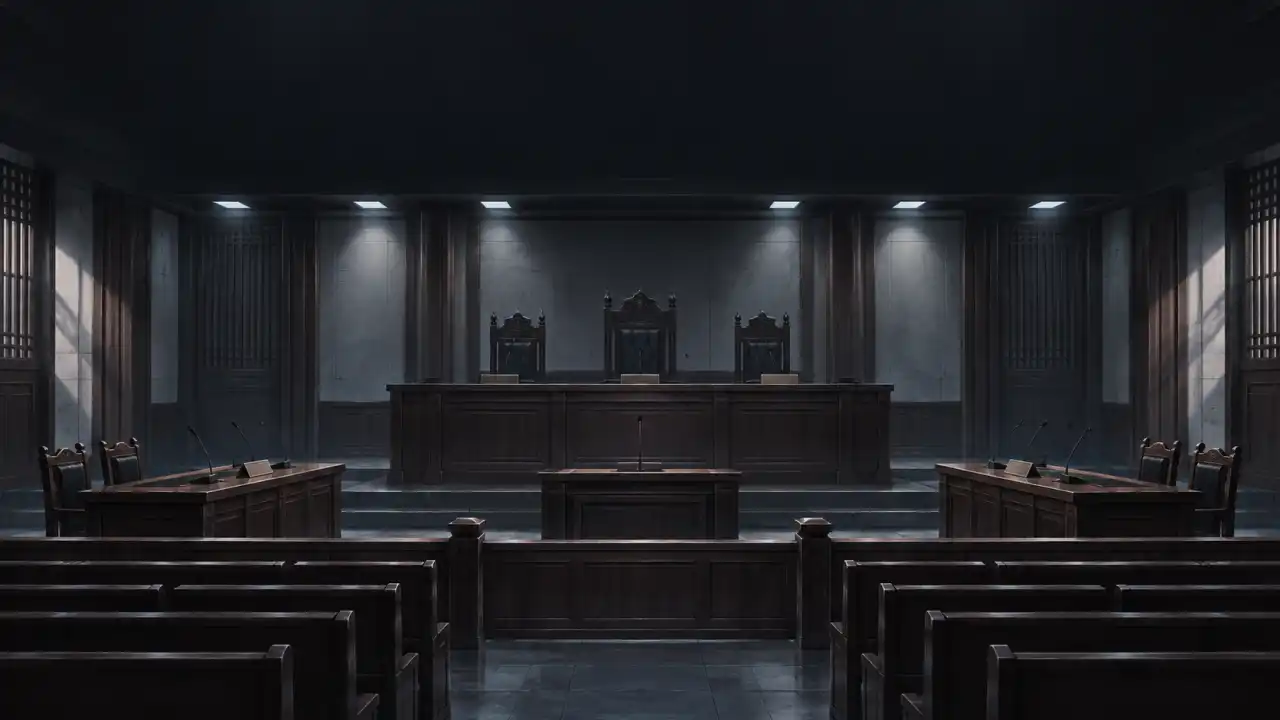
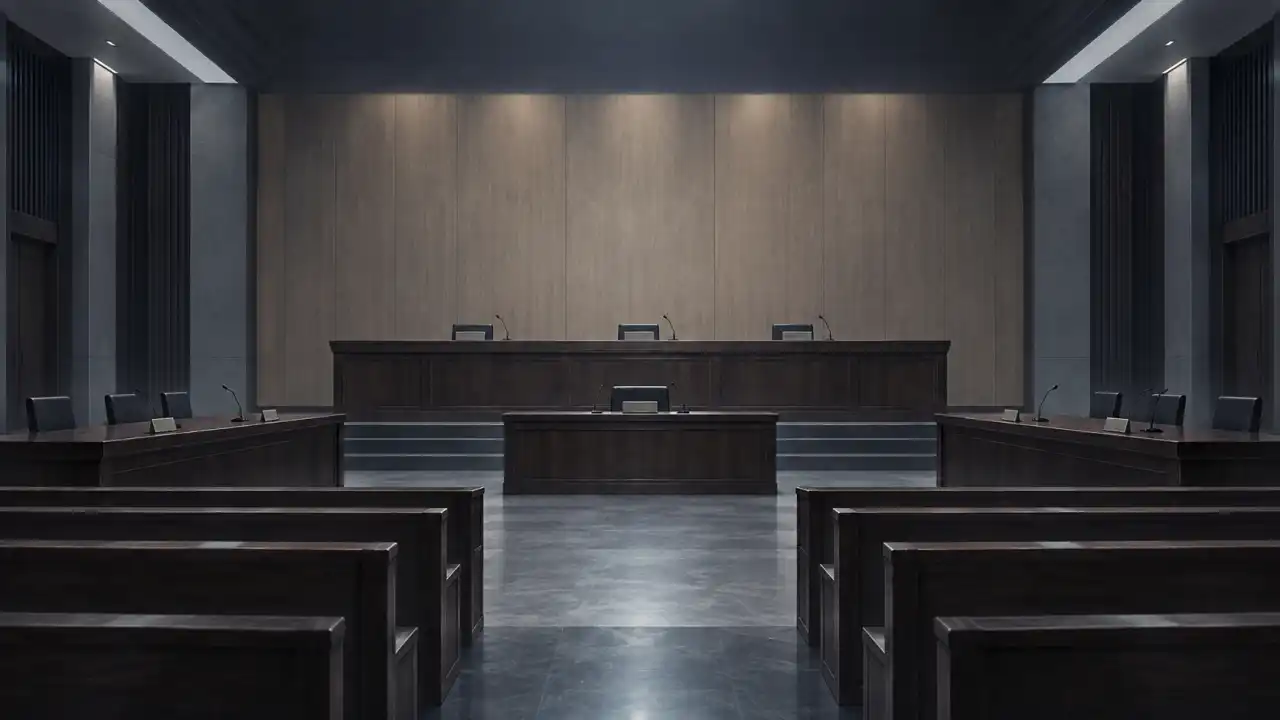
重出 court 和 hallway：审判台改成中式一体式形制，走廊去掉正义女神像和古典柱廊；更新对照图并记下返工原因

diff --git a/src/art.js b/src/art.js
@@ -14,7 +14,7 @@ const ART={
   moods:['rain','hospital','press','night','sign','celebrate','empty','mediation'],
   // 立绘 512×640 webp，每个岗位当前可用张数
   // 现有 14 张为《开个影视公司》复用图，出了新图同名覆盖即可
-  portraitCount:{partner:2,litigator:2,corporate:2,associate:2,paralegal:2,bd:1,star:3}
+  portraitCount:{partner:2,litigator:2,corporate:2,associate:2,paralegal:2,bd:2,star:3}
 };
 const PHASE_SCENES=['phase-intake','phase-evidence','phase-argue','phase-close'];
 function artMiss(img){const box=img.parentNode;if(box)box.classList.add('no-art');img.remove()}

diff --git a/docs/出图清单.md b/docs/出图清单.md
@@ -15,38 +15,21 @@
 
 - ✅ **场景图 16/16、氛围图 8/8 全齐**，尺寸体积全部合规，已上线。
   拼图见 `docs/场景图对照.png`、`docs/场景图对照-第二批.png`、`docs/氛围图对照.png`。
-- ⚠ **两张建议返工**（见下面「待重出」一节）：`hallway` 踩了「不要欧美法庭」那条；`court` 的审判台形制不对。
+- ✅ `court` 和 `hallway` 已按修正后的 prompt 重出：审判台改成中式的一体式形制，
+  走廊里的正义女神像和古典柱廊去掉了。
 - ⬜ **还缺**：`bd-02`（市场岗只有 1 张立绘，同岗位第二个人会重脸）
-
----
-
-## 待重出
-
-### `hallway.webp` — 法院走廊（**必须重出**）
-
-现在这张的走廊尽头立着一尊**正义女神像**（蒙眼、举天平），两侧是古典柱廊和拱窗。
-「不要欧美法庭场景」这条负面提示没吃住——正义女神是西方法律图腾，中国法院不用这个。
-重出时把它写进负面里，正面描述也换成现代中式法院的样子：
-
-```
-电影感概念美术风格的数字厚涂插画，中国当代法院内部，低饱和冷调，日光灯与窗光为主光源，轻微胶片颗粒，暗部偏青灰；画面上方三分之一留暗部用于叠加文字；画面里不出现任何文字、字母、logo、法徽、国徽或任何徽章；人物只用中远景或背影，不出现清晰面孔；横构图 16:9，尺寸 1280×720。画面内容：现代法院的办案区长走廊，两侧是一扇扇紧闭的深色木门和成排的金属连排等候椅，地面是浅色石材、反着冷光，顶上是嵌入式方形灯带，走廊尽头是一扇磨砂玻璃门透进来的白光，几个抱着文件袋的人影背对镜头坐着或走着，纵深很长，气氛安静。
-负面：不要正义女神像/蒙眼女神/天平雕像/任何雕塑，不要古典柱廊/罗马柱/拱窗/穹顶，不要大理石台阶，不要文字/水印/logo/法徽国徽/任何徽章，不要漫画或像素风格，不要高饱和霓虹，不要清晰人脸，不要欧美法院建筑，不要 3D 渲染感。
-```
-
-### `court.webp` — 审判庭（**可选重出**）
-
-没有徽章，这点是对的。但审判席画成了三把独立的高背扶手椅，像欧洲法庭的合议席；
-中国法庭是一整条连在一起的审判台，台下正中是书记员席，两侧各一张长桌（原告/被告席）。
-不重出也能用，就是形制不像。要改的话：
-
-```
-电影感概念美术风格的数字厚涂插画，中国当代法庭内部，低饱和冷调，日光灯为主光源，轻微胶片颗粒，暗部偏青灰；画面上方三分之一留暗部用于叠加文字；画面里不出现任何文字、字母、logo、法徽、国徽或任何徽章；人物只用中远景或背影，不出现清晰面孔；横构图 16:9，尺寸 1280×720。画面内容：开庭前的空法庭，正前方是一整条连在一起的深色木质审判台、比地面高出两级，台面上并排放着三支话筒和三个空白的名牌支架；审判台正下方是一张小一号的书记员席；台前左右各有一张长桌，桌上也各有话筒和空白名牌；再往后是几排空着的旁听席长椅；背景墙是素净的浅色木饰面，墙上什么都没有；顶灯冷白，空间左右对称、肃静。
-负面：不要独立的高背扶手椅或王座式座位，不要陪审团席、不要木槌、不要证人席围栏，不要文字/水印/logo/法徽国徽/任何徽章，不要漫画或像素风格，不要高饱和霓虹，不要清晰人脸，不要欧美法庭，不要 3D 渲染感。
-```
 
 `node tests/game-core.test.mjs` 里有四条针对 assets 的检查：文件名在不在清单里、
 立绘编号有没有超出 `portraitCount`、尺寸对不对、单张有没有超 90KB。
 **文件名打错的话游戏会静默降级成纯 CSS，页面上什么都不提示**，所以出完图跑一下测试。
+
+### 返工记录
+
+第一版 `hallway` 走廊尽头立了一尊正义女神像（蒙眼、举天平），两侧是古典柱廊和拱窗——
+「不要欧美法庭场景」这条负面没吃住。第一版 `court` 没有徽章（这点是对的），
+但审判席画成了三把独立高背扶手椅，像欧洲合议庭。
+教训是**负面提示要点名具体物件**，只写「不要欧美法庭」太笼统；重出时把
+「正义女神像/天平雕像/古典柱廊/拱窗」和「独立高背扶手椅/王座式座位」逐个列进负面，一次就对了。
 
 ## 优先级
 

diff --git a/README.md b/README.md
@@ -55,7 +55,7 @@ tests/            核心逻辑测试（node tests/game-core.test.mjs）
 全部可选。`assets/` 里没有图，游戏照常运行；丢一张进去就多一处变好看，不需要改代码。
 
 - **场景图 / 氛围图**：16 + 8 张全部入库，对照见 `docs/场景图对照.png`、
-  `docs/场景图对照-第二批.png`、`docs/氛围图对照.png`（其中 `hallway` 建议返工，见出图清单）
+  `docs/场景图对照-第二批.png`、`docs/氛围图对照.png`
 - **立绘**：现有 14 张是从《开个影视公司》复用并按律所岗位重命名的，对照见 `docs/影视立绘对照.png`
 - 出图规范与完整 prompt 见 `docs/出图清单.md`；出完跑一遍测试，里面有文件名、编号、尺寸和体积的检查
 
